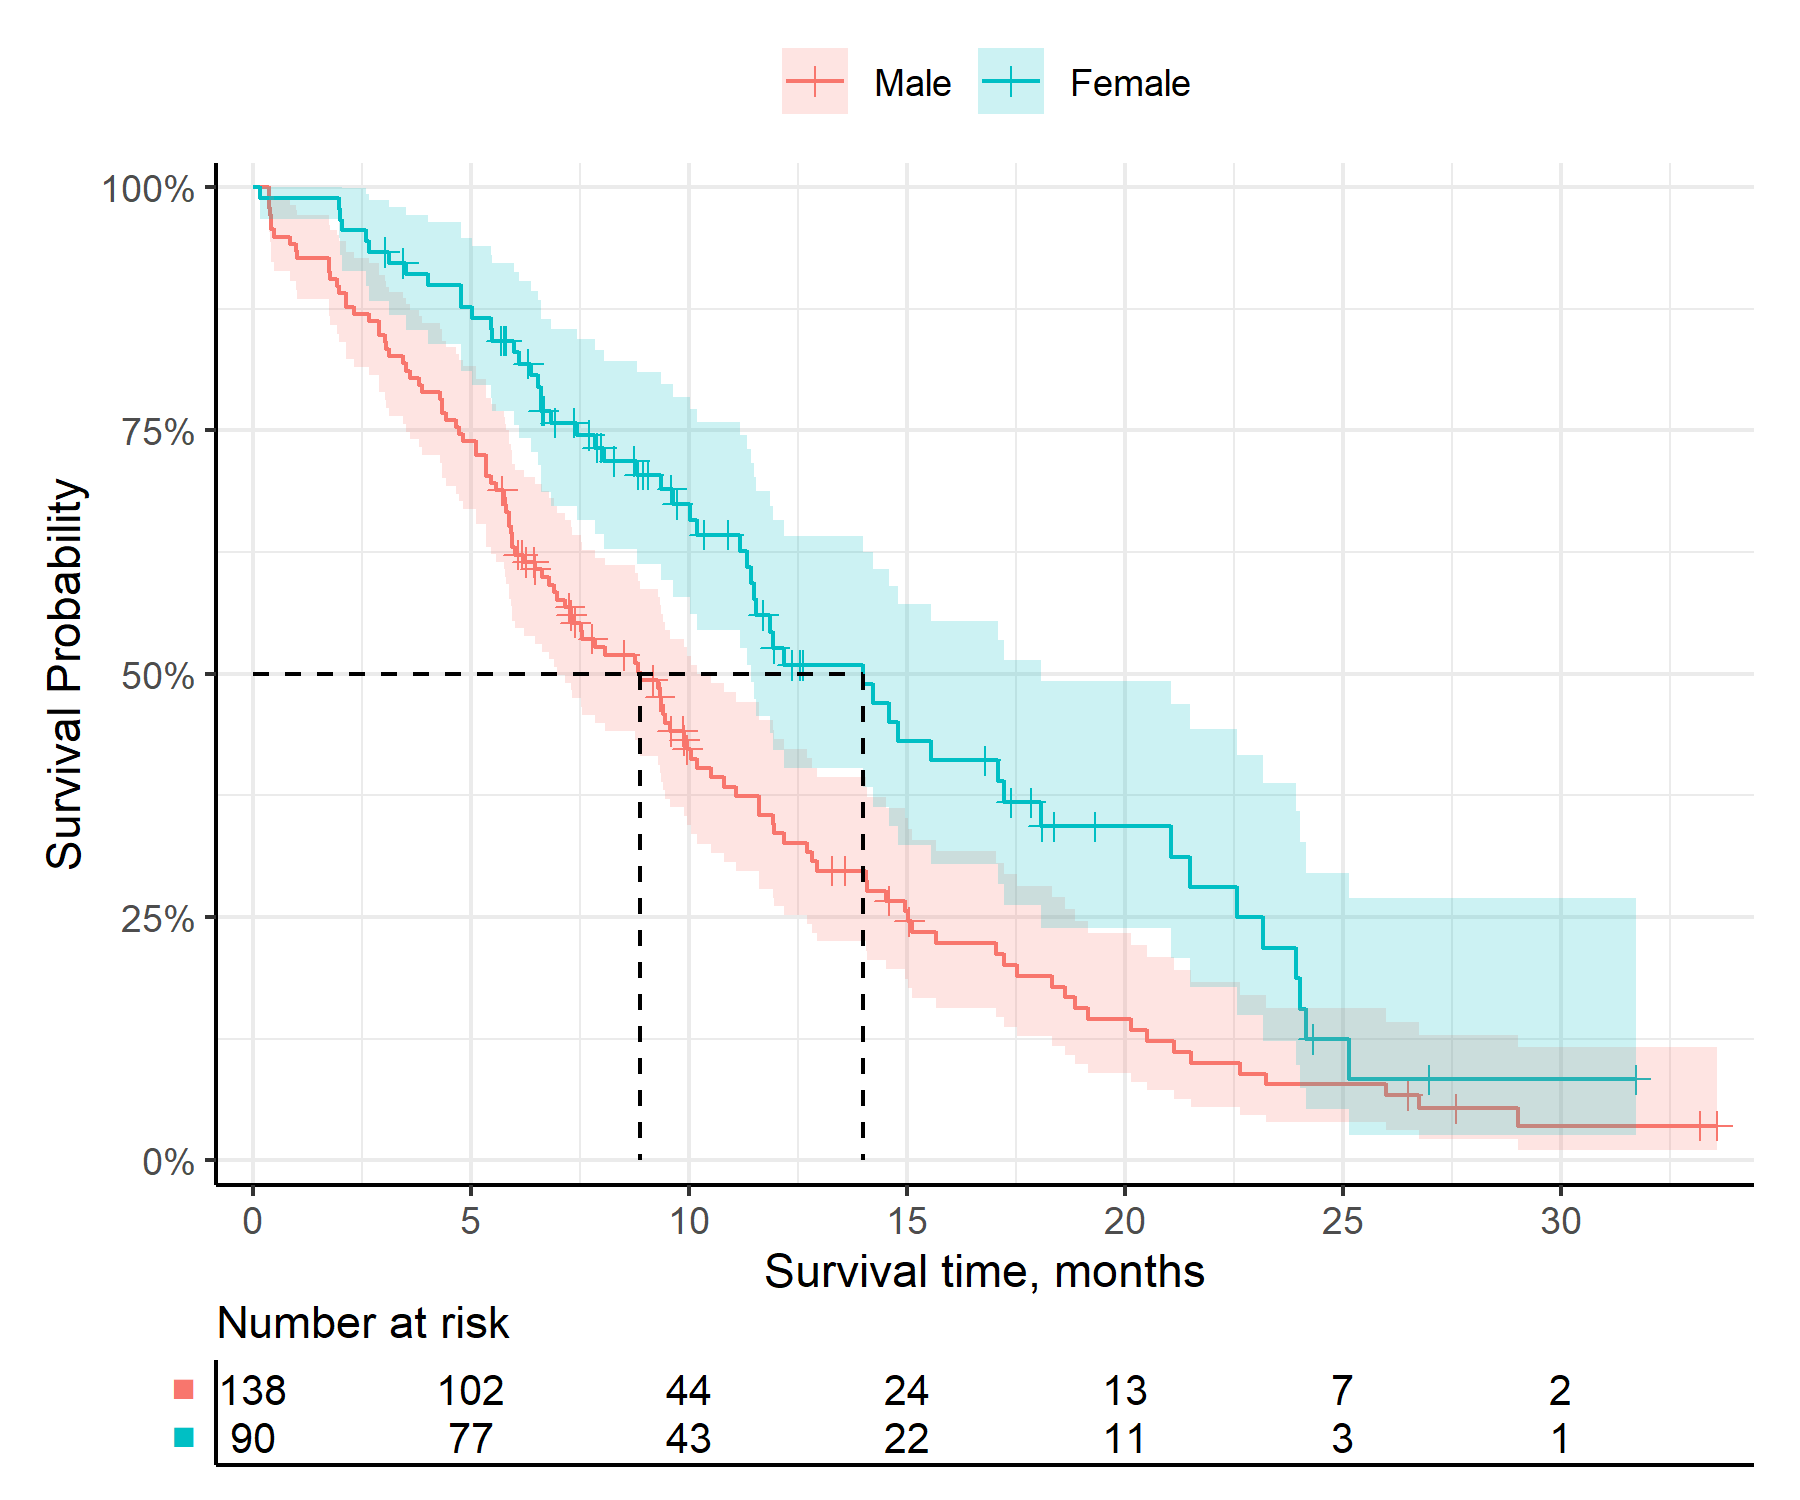
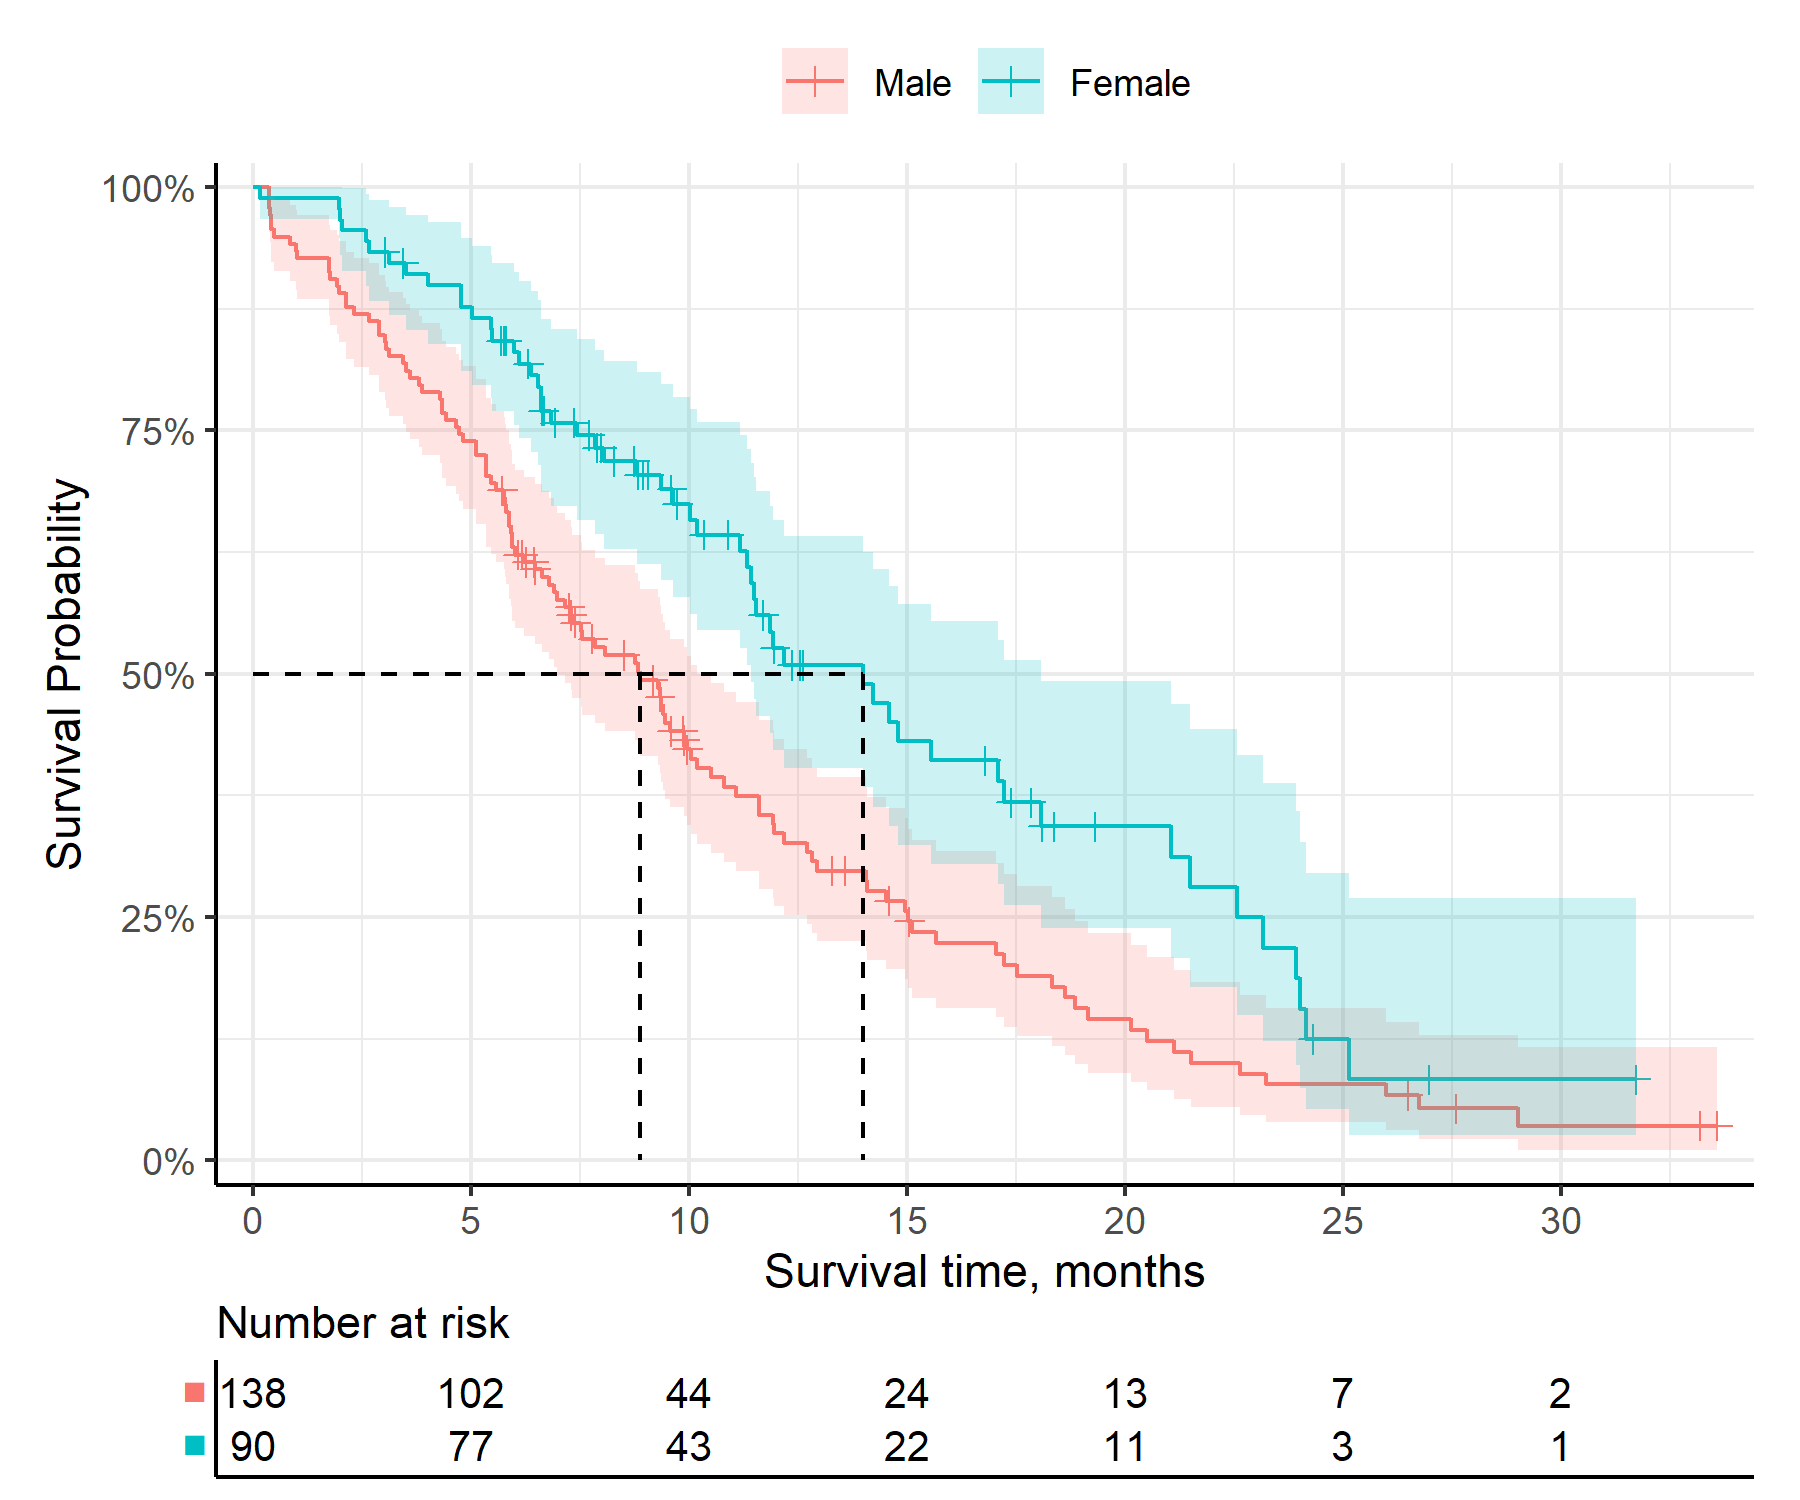
Preparing for CRAN release

Changed region(s): [[0.0933, 0.92, 0.9644, 1.0]]

diff --git a/cran-comments.md b/cran-comments.md
@@ -2,5 +2,5 @@
 
 0 errors | 0 warnings | 0 notes
 
-* We don't expect any reverse dependency failures.
-* This patch is a simple fix to plot_schoenfeld() to respect point_* aesthetic arguments (col, size, shape, alpha) that previously had no impact.
+* We patch plot_schoenfeld() to respect point_* aesthetic arguments (col, size, shape, alpha) that previously had no impact.
+* We increment our package dependency on ggsurvfit to v1.2.0 to address updates made in ggplot2 v4.0.0.

diff --git a/NEWS.md b/NEWS.md
@@ -1,6 +1,7 @@
 # easysurv 2.0.2
 
 * Fix: plot_schoenfeld() now respects point_* aesthetics (col, size, shape, alpha). (#24)
+* Increment package dependency on `ggsurvfit` to v1.2.0 to address updates made in `ggplot2` v4.0.0.
 
 # easysurv 2.0.1
 
